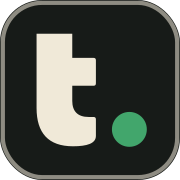
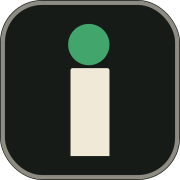
Add files via upload

Changed region(s): [[0.1944, 0.1111, 0.8333, 0.8889]]

diff --git a/index.html b/index.html
@@ -4,13 +4,13 @@
 <meta charset="utf-8">
 <meta name="viewport" content="width=device-width, initial-scale=1, viewport-fit=cover">
 <meta name="theme-color" content="#0F1113">
-<link rel="apple-touch-icon" sizes="180x180" href="/apple-touch-icon.png?v=36">
-<link rel="icon" href="/favicon.svg?v=36" type="image/svg+xml">
-<link rel="icon" type="image/png" sizes="32x32" href="/favicon-32.png?v=36">
+<link rel="apple-touch-icon" sizes="180x180" href="/apple-touch-icon.png?v=37">
+<link rel="icon" href="/favicon.svg?v=37" type="image/svg+xml">
+<link rel="icon" type="image/png" sizes="32x32" href="/favicon-32.png?v=37">
 <meta name="apple-mobile-web-app-capable" content="yes">
 <meta name="apple-mobile-web-app-status-bar-style" content="default">
 <meta name="apple-mobile-web-app-title" content="Trice">
-<meta name="version" content="trice-v34.1">
+<meta name="version" content="trice-v35.0">
 <meta property="og:title" content="Trice — The field changes fast. Your data should keep up.">
 <meta property="og:description" content="Purpose-built technology designed for your operation, your teams, and the decisions they make.">
 <meta property="og:image" content="https://app.trice.live/og.png?v=35">
@@ -22,8 +22,8 @@
 <meta name="twitter:image" content="https://app.trice.live/og.png?v=35">
 <meta name="description" content="Purpose-built technology designed for your operation, your teams, and the decisions they make.">
 <title>Trice · Tree survey</title>
-<link rel="stylesheet" href="/vendor/leaflet.min.css?v=trice-v34.1">
-<script defer src="/vendor/leaflet.min.js?v=trice-v34.1" onerror="(function(){var s=document.createElement('script');s.src='https://cdn.jsdelivr.net/npm/leaflet@1.9.4/dist/leaflet.js';document.head.appendChild(s);var l=document.createElement('link');l.rel='stylesheet';l.href='https://cdn.jsdelivr.net/npm/leaflet@1.9.4/dist/leaflet.css';document.head.appendChild(l);})()"></script>
+<link rel="stylesheet" href="/vendor/leaflet.min.css?v=trice-v35.0">
+<script defer src="/vendor/leaflet.min.js?v=trice-v35.0" onerror="(function(){var s=document.createElement('script');s.src='https://cdn.jsdelivr.net/npm/leaflet@1.9.4/dist/leaflet.js';document.head.appendChild(s);var l=document.createElement('link');l.rel='stylesheet';l.href='https://cdn.jsdelivr.net/npm/leaflet@1.9.4/dist/leaflet.css';document.head.appendChild(l);})()"></script>
 <link rel="manifest" href="manifest.webmanifest">
 <style>
 *{box-sizing:border-box}
@@ -35,7 +35,7 @@
 }
 html,body{height:100%}
 html{-webkit-text-size-adjust:100%;text-size-adjust:100%}
-@font-face{font-family:'Inter';src:url('/vendor/InterVariable.woff2?v=trice-v34.1') format('woff2');font-weight:100 900;font-style:normal;font-display:swap}
+@font-face{font-family:'Inter';src:url('/vendor/InterVariable.woff2?v=trice-v35.0') format('woff2');font-weight:100 900;font-style:normal;font-display:swap}
 body{margin:0;background:var(--bg);color:var(--ink);font-family:'Inter',-apple-system,BlinkMacSystemFont,"Helvetica Neue",Helvetica,Arial,sans-serif;font-feature-settings:'cv11','ss01';-webkit-font-smoothing:antialiased;line-height:1.5;font-size:14px;overscroll-behavior-y:contain}
 ::selection{background:rgba(200,69,44,.16)}
 a{color:var(--info);text-decoration:none}
@@ -206,7 +206,7 @@ input,select,textarea{border-radius:11px}
   #printReport th{font-size:10px;text-transform:uppercase;letter-spacing:.08em;color:#777}
 }
 @keyframes wmbeat{0%{box-shadow:0 0 0 0 rgba(111,165,124,.45)}70%{box-shadow:0 0 0 8px rgba(111,165,124,0)}100%{box-shadow:0 0 0 0 rgba(111,165,124,0)}}
-.wmp{position:absolute;left:93.9%;top:82.5%;height:28.4%;aspect-ratio:1;border-radius:50%;transform:translate(-50%,-50%);box-shadow:0 0 0 0 rgba(66,166,108,.5);animation:wmbeat 2.8s ease-out infinite}
+.wmp{position:absolute;left:41.9%;top:17.5%;height:28.5%;aspect-ratio:1;border-radius:50%;transform:translate(-50%,-50%);box-shadow:0 0 0 0 rgba(66,166,108,.5);animation:wmbeat 2.8s ease-out infinite}
 @keyframes wmbeat{0%{box-shadow:0 0 0 0 rgba(66,166,108,.5)}70%{box-shadow:0 0 0 8px rgba(66,166,108,0)}100%{box-shadow:0 0 0 0 rgba(66,166,108,0)}}
 </style>
 <style>
@@ -2166,7 +2166,7 @@ function nameCard() {
   return `
   <div style="max-width:420px;margin:0 auto">
     <div style="text-align:center;padding:14px 0 4px">
-      <div style="display:flex;justify-content:center"><span class="wm" style="display:inline-block;position:relative;height:28px;line-height:0"><img src="/brand/wordmark-ink.svg?v=1" alt="Trice" style="height:100%;width:auto;display:block"><i class="wmp"></i></span></div>
+      <div style="display:flex;justify-content:center"><span class="wm" style="display:inline-block;position:relative;height:28px;line-height:0"><img src="/brand/wordmark-ink.svg?v=2" alt="Trice" style="height:100%;width:auto;display:block"><i class="wmp"></i></span></div>
     </div>
     <div class="card" style="padding:24px 18px;margin-top:12px">
       <div style="font-size:17px;font-weight:700">Who's assessing?</div>
@@ -4951,7 +4951,7 @@ function reportView() {
     <div class="field" style="margin-top:10px"><label>Adjuster / consultant on the loss <span style="text-transform:none;letter-spacing:0;color:var(--faint)">(drives the conflict check)</span></label><input id="setAdjuster" value="${esc(j.adjuster||'')}"></div>
     <button class="btn dark" style="margin-top:12px" onclick="saveSettings()">Save header</button>
   </div>` : ''}
-  <div style="margin-top:16px;font-size:11px;color:var(--faint);line-height:1.55;text-align:center;padding:0 8px">Assessment performed by visual inspection from the ground, to ANSI A300 and Z133. AI-assisted; estimates support — but do not replace — the judgement of a qualified arborist. Not legal, tax or insurance advice. · v34.1</div>`;
+  <div style="margin-top:16px;font-size:11px;color:var(--faint);line-height:1.55;text-align:center;padding:0 8px">Assessment performed by visual inspection from the ground, to ANSI A300 and Z133. AI-assisted; estimates support — but do not replace — the judgement of a qualified arborist. Not legal, tax or insurance advice. · v35.0</div>`;
 }
 function saveSettings() {
   const g = id => (document.getElementById(id) || {}).value || '';
@@ -4996,19 +4996,19 @@ let XLSX_P = null;
 function loadXLSX() {
   if (window.XLSX) return Promise.resolve();
   if (XLSX_P) return XLSX_P;
-  XLSX_P = loadScriptChain(['/vendor/xlsx.full.min.js?v=trice-v34.1', 'https://cdn.jsdelivr.net/npm/xlsx@0.18.5/dist/xlsx.full.min.js']).catch((e) => { XLSX_P = null; throw e; });
+  XLSX_P = loadScriptChain(['/vendor/xlsx.full.min.js?v=trice-v35.0', 'https://cdn.jsdelivr.net/npm/xlsx@0.18.5/dist/xlsx.full.min.js']).catch((e) => { XLSX_P = null; throw e; });
   return XLSX_P;
 }
 function loadExcelJS() {
   if (window.ExcelJS) return Promise.resolve();
   if (EXCELJS_P) return EXCELJS_P;
-  EXCELJS_P = loadScriptChain(['/vendor/exceljs.min.js?v=trice-v34.1', 'https://cdn.jsdelivr.net/npm/exceljs@4.4.0/dist/exceljs.min.js', 'https://unpkg.com/exceljs@4.4.0/dist/exceljs.min.js'])
+  EXCELJS_P = loadScriptChain(['/vendor/exceljs.min.js?v=trice-v35.0', 'https://cdn.jsdelivr.net/npm/exceljs@4.4.0/dist/exceljs.min.js', 'https://unpkg.com/exceljs@4.4.0/dist/exceljs.min.js'])
     .catch(e => { EXCELJS_P = null; throw new Error('ExcelJS unavailable from every source'); });
   return EXCELJS_P;
 }
 function ensureSheetJS() {
   if (typeof XLSX !== 'undefined') return Promise.resolve();
-  return loadScriptChain(['/vendor/xlsx.full.min.js?v=trice-v34.1', 'https://cdn.jsdelivr.net/npm/xlsx@0.18.5/dist/xlsx.full.min.js', 'https://unpkg.com/xlsx@0.18.5/dist/xlsx.full.min.js']);
+  return loadScriptChain(['/vendor/xlsx.full.min.js?v=trice-v35.0', 'https://cdn.jsdelivr.net/npm/xlsx@0.18.5/dist/xlsx.full.min.js', 'https://unpkg.com/xlsx@0.18.5/dist/xlsx.full.min.js']);
 }
 function thumbJPEG(dataUrl, maxW) {
   return new Promise((res) => {
@@ -5939,7 +5939,7 @@ function gateView() {
     <div class="gg" style="width:60vw;height:60vw;max-width:760px;max-height:760px;background:radial-gradient(circle,rgba(232,99,43,.8) 0%,rgba(232,99,43,.28) 30%,rgba(232,99,43,0) 66%);bottom:-24vw;right:-18vw;opacity:.42;animation:gd2 26s ease-in-out infinite alternate"></div>
     <div style="position:relative;min-height:100%;display:flex;flex-direction:column">
       <div style="display:flex;align-items:center;justify-content:space-between;padding:calc(env(safe-area-inset-top,0px) + 22px) 26px 22px">
-        <a href="https://trice.live/" style="display:inline-block;position:relative;height:22px;line-height:0"><img src="/brand/wordmark-bone.svg?v=1" alt="Trice" style="height:100%;width:auto;display:block"><i class="wmp"></i></a>
+        <a href="https://trice.live/" style="display:inline-block;position:relative;height:22px;line-height:0"><img src="/brand/wordmark-bone.svg?v=2" alt="Trice" style="height:100%;width:auto;display:block"><i class="wmp"></i></a>
         <a href="https://trice.live/" style="color:#A7A9AE;text-decoration:none;font-size:14px;font-weight:700">&#8249; Back to Trice</a>
       </div>
       <div style="flex:1;display:flex;align-items:center;justify-content:center;padding:16px 20px 48px">${inner}</div>
@@ -5988,8 +5988,8 @@ function render() {
   const adjT = S.adjustId && S.trees.find(x => x.id === S.adjustId);
   app.innerHTML = `
     <div class="hdr">
-      <button onclick="goHome()" aria-label="Trice — start screen" style="border:0;background:none;padding:0;display:flex;align-items:center;gap:11px;text-align:left;color:var(--ink)"><span class="wm" style="display:inline-block;position:relative;height:26px;line-height:0"><img src="/brand/wordmark-ink.svg?v=1" alt="Trice" style="height:100%;width:auto;display:block"><i class="wmp"></i></span>
-      <div><div class="t2" style="margin-top:0">v34.1</div><div id="beaconLine" style="margin-top:6px;font-size:10px;color:var(--bad);font-weight:700;letter-spacing:.02em"></div></div></button>
+      <button onclick="goHome()" aria-label="Trice — start screen" style="border:0;background:none;padding:0;display:flex;align-items:center;gap:11px;text-align:left;color:var(--ink)"><span class="wm" style="display:inline-block;position:relative;height:26px;line-height:0"><img src="/brand/wordmark-ink.svg?v=2" alt="Trice" style="height:100%;width:auto;display:block"><i class="wmp"></i></span>
+      <div><div id="beaconLine" style="margin-top:6px;font-size:10px;color:var(--bad);font-weight:700;letter-spacing:.02em"></div></div></button>
       ${IS_DESKTOP() ? `<button onclick="toggleAdmin()" style="flex:none;border:1px solid ${S.admin ? 'var(--accent)' : 'var(--line)'};background:${S.admin ? 'var(--accent)' : '#fff'};color:${S.admin ? '#fff' : 'var(--muted)'};border-radius:999px;padding:7px 14px;font-size:11px;font-weight:700;margin-right:10px">${S.admin ? 'Admin ✓' : 'Admin'}</button>` : ''}
       <button onclick="S.hdrMenu=!S.hdrMenu;render()" aria-label="Menu" style="margin-left:auto;flex:none;width:44px;height:44px;border:1px solid var(--line);background:#fff;border-radius:13px;display:flex;flex-direction:column;align-items:center;justify-content:center;gap:4.5px;position:relative;cursor:pointer">
         <span style="width:17px;height:2px;background:var(--ink);border-radius:1px"></span><span style="width:17px;height:2px;background:var(--ink);border-radius:1px"></span><span style="width:17px;height:2px;background:var(--ink);border-radius:1px"></span>
@@ -5998,7 +5998,7 @@ function render() {
       ${S.hdrMenu ? hdrMenu() : ''}
     </div>
     <div class="view${S.tab === 'sheet' ? ' sheetfull' : ''}">${body}</div>
-    <div class="nav"><div class="railtop"><div class="railmark"><span class="wm" style="display:inline-block;position:relative;height:26px;line-height:0"><img src="/brand/wordmark-ink.svg?v=1" alt="Trice" style="height:100%;width:auto;display:block"><i class="wmp"></i></span></div><div class="railsub">WTR field module</div><img class="railcrest" src="${WTR_MARK}" alt="WTR Group"><button onclick="hardRefresh()" title="Clear this device's cached copy and load the live build" style="display:block;margin-top:14px;border:0;background:none;padding:0;font-size:9.5px;letter-spacing:.14em;color:#c6c8cb;font-weight:700;cursor:pointer;text-transform:uppercase">${BUILD.replace('trice-','')} \u00b7 update</button></div>${IS_DESKTOP()
+    <div class="nav"><div class="railtop"><div class="railmark"><span class="wm" style="display:inline-block;position:relative;height:26px;line-height:0"><img src="/brand/wordmark-ink.svg?v=2" alt="Trice" style="height:100%;width:auto;display:block"><i class="wmp"></i></span></div><div class="railsub">WTR field module</div><img class="railcrest" src="${WTR_MARK}" alt="WTR Group"><button onclick="hardRefresh()" title="Clear this device's cached copy and load the live build" style="display:block;margin-top:14px;border:0;background:none;padding:0;font-size:9.5px;letter-spacing:.14em;color:#c6c8cb;font-weight:700;cursor:pointer;text-transform:uppercase">${BUILD.replace('trice-','')} \u00b7 update</button></div>${IS_DESKTOP()
       ? `${navBtn('survey','Home')}${navBtn('map','Map')}${navBtn('sheet','Grid')}${navBtn('report','Report')}${navBtn('projects','Projects')}${navBtn('work','Work')}${ADMIN() ? navBtn('team','Team') : ''}`
       : `${navBtn('survey','Home')}${navBtn('map','Map')}<button class="fab" onclick="fabCapture()" title="Capture a tree" aria-label="Capture"><svg viewBox="0 0 24 24"><path d="M12 5v14M5 12h14"/></svg></button>${navBtn('sheet','Grid')}${navBtn('report','Report')}`}${IS_DESKTOP() ? `<button class="railout" onclick="signOut()" title="Back to the landing page — records stay on this device">Sign out</button>` : ''}<div class="railfoot"><span class="raildot"></span><span>${esc(S.surveyor || 'No user')}${S.site ? ' · ' + esc(S.site) : ''}</span></div></div>
     ${S.ruler ? rulerView() : ''}
@@ -6065,7 +6065,7 @@ async function beaconCheck() {
   }
   const el = document.getElementById('beaconLine');
   if (el) {
-    if (b.state === 'match') { el.style.color = 'var(--faint)'; el.innerHTML = 'This device and the server are both on ' + esc(b.server) + '.'; }
+    if (b.state === 'match') { el.innerHTML = ''; }  /* all good is silent */
     else if (b.state === 'server-behind') { el.style.color = 'var(--bad)'; el.innerHTML = 'Server is publishing <b>' + esc(b.server) + '</b> but this build is newer \u2014 the deploy has not gone live. Check the Netlify deploy log.'; }
     else el.innerHTML = '';
   }

diff --git a/team.html b/team.html
@@ -21,7 +21,7 @@
     header{position:relative;z-index:1;display:flex;align-items:center;justify-content:space-between;padding:22px 26px}
     .mark{position:relative;display:inline-block;height:22px;line-height:0}
     .mark img{height:100%;width:auto;display:block}
-    .mark .pulse{position:absolute;left:93.9%;top:82.5%;height:28.4%;aspect-ratio:1;border-radius:50%;transform:translate(-50%,-50%);box-shadow:0 0 0 0 rgba(66,166,108,.5);animation:beat 2.8s ease-out infinite}
+    .mark .pulse{position:absolute;left:41.9%;top:17.5%;height:28.5%;aspect-ratio:1;border-radius:50%;transform:translate(-50%,-50%);box-shadow:0 0 0 0 rgba(66,166,108,.5);animation:beat 2.8s ease-out infinite}
     @keyframes beat{0%{box-shadow:0 0 0 0 rgba(143,203,159,.45)}70%{box-shadow:0 0 0 10px rgba(143,203,159,0)}100%{box-shadow:0 0 0 0 rgba(143,203,159,0)}}
     .back{color:var(--muted);text-decoration:none;font-size:14px;font-weight:700}.back:hover{color:#fff}
     main{position:relative;z-index:1;flex:1;display:flex;align-items:center;justify-content:center;padding:24px 20px 48px}
@@ -57,7 +57,7 @@
 </head>
 <body>
   <div class="glow g1"></div><div class="glow g2"></div>
-  <header><a class="mark" href="https://trice.live/" aria-label="Trice"><img src="/brand/wordmark-bone.svg?v=1" alt="Trice"><i class="pulse"></i></a><a class="back" href="https://trice.live/">&#8249; Back to Trice</a></header>
+  <header><a class="mark" href="https://trice.live/" aria-label="Trice"><img src="/brand/wordmark-bone.svg?v=2" alt="Trice"><i class="pulse"></i></a><a class="back" href="https://trice.live/">&#8249; Back to Trice</a></header>
   <main>
     <div class="card" id="card">
       <div class="eyebrow">Teams</div>

diff --git a/sw.js b/sw.js
@@ -4,7 +4,7 @@
    loses the race and the cached shell paints instead — and the network fetch is
    NOT aborted: when it eventually lands, the new build is cached and the in-page
    build watchdog (the single reload authority) swaps it in at a safe moment. */
-const CACHE = 'trice-shell-v140';
+const CACHE = 'trice-shell-v142';
 const CORE = ['/', '/index.html', '/manifest.webmanifest', '/icon-192.png', '/icon-512.png', '/vendor/leaflet.min.js', '/vendor/leaflet.min.css', '/vendor/InterVariable.woff2', '/brand/wordmark-ink.svg', '/brand/wordmark-bone.svg'];
 const NAV_TIMEOUT = 3500;
 
